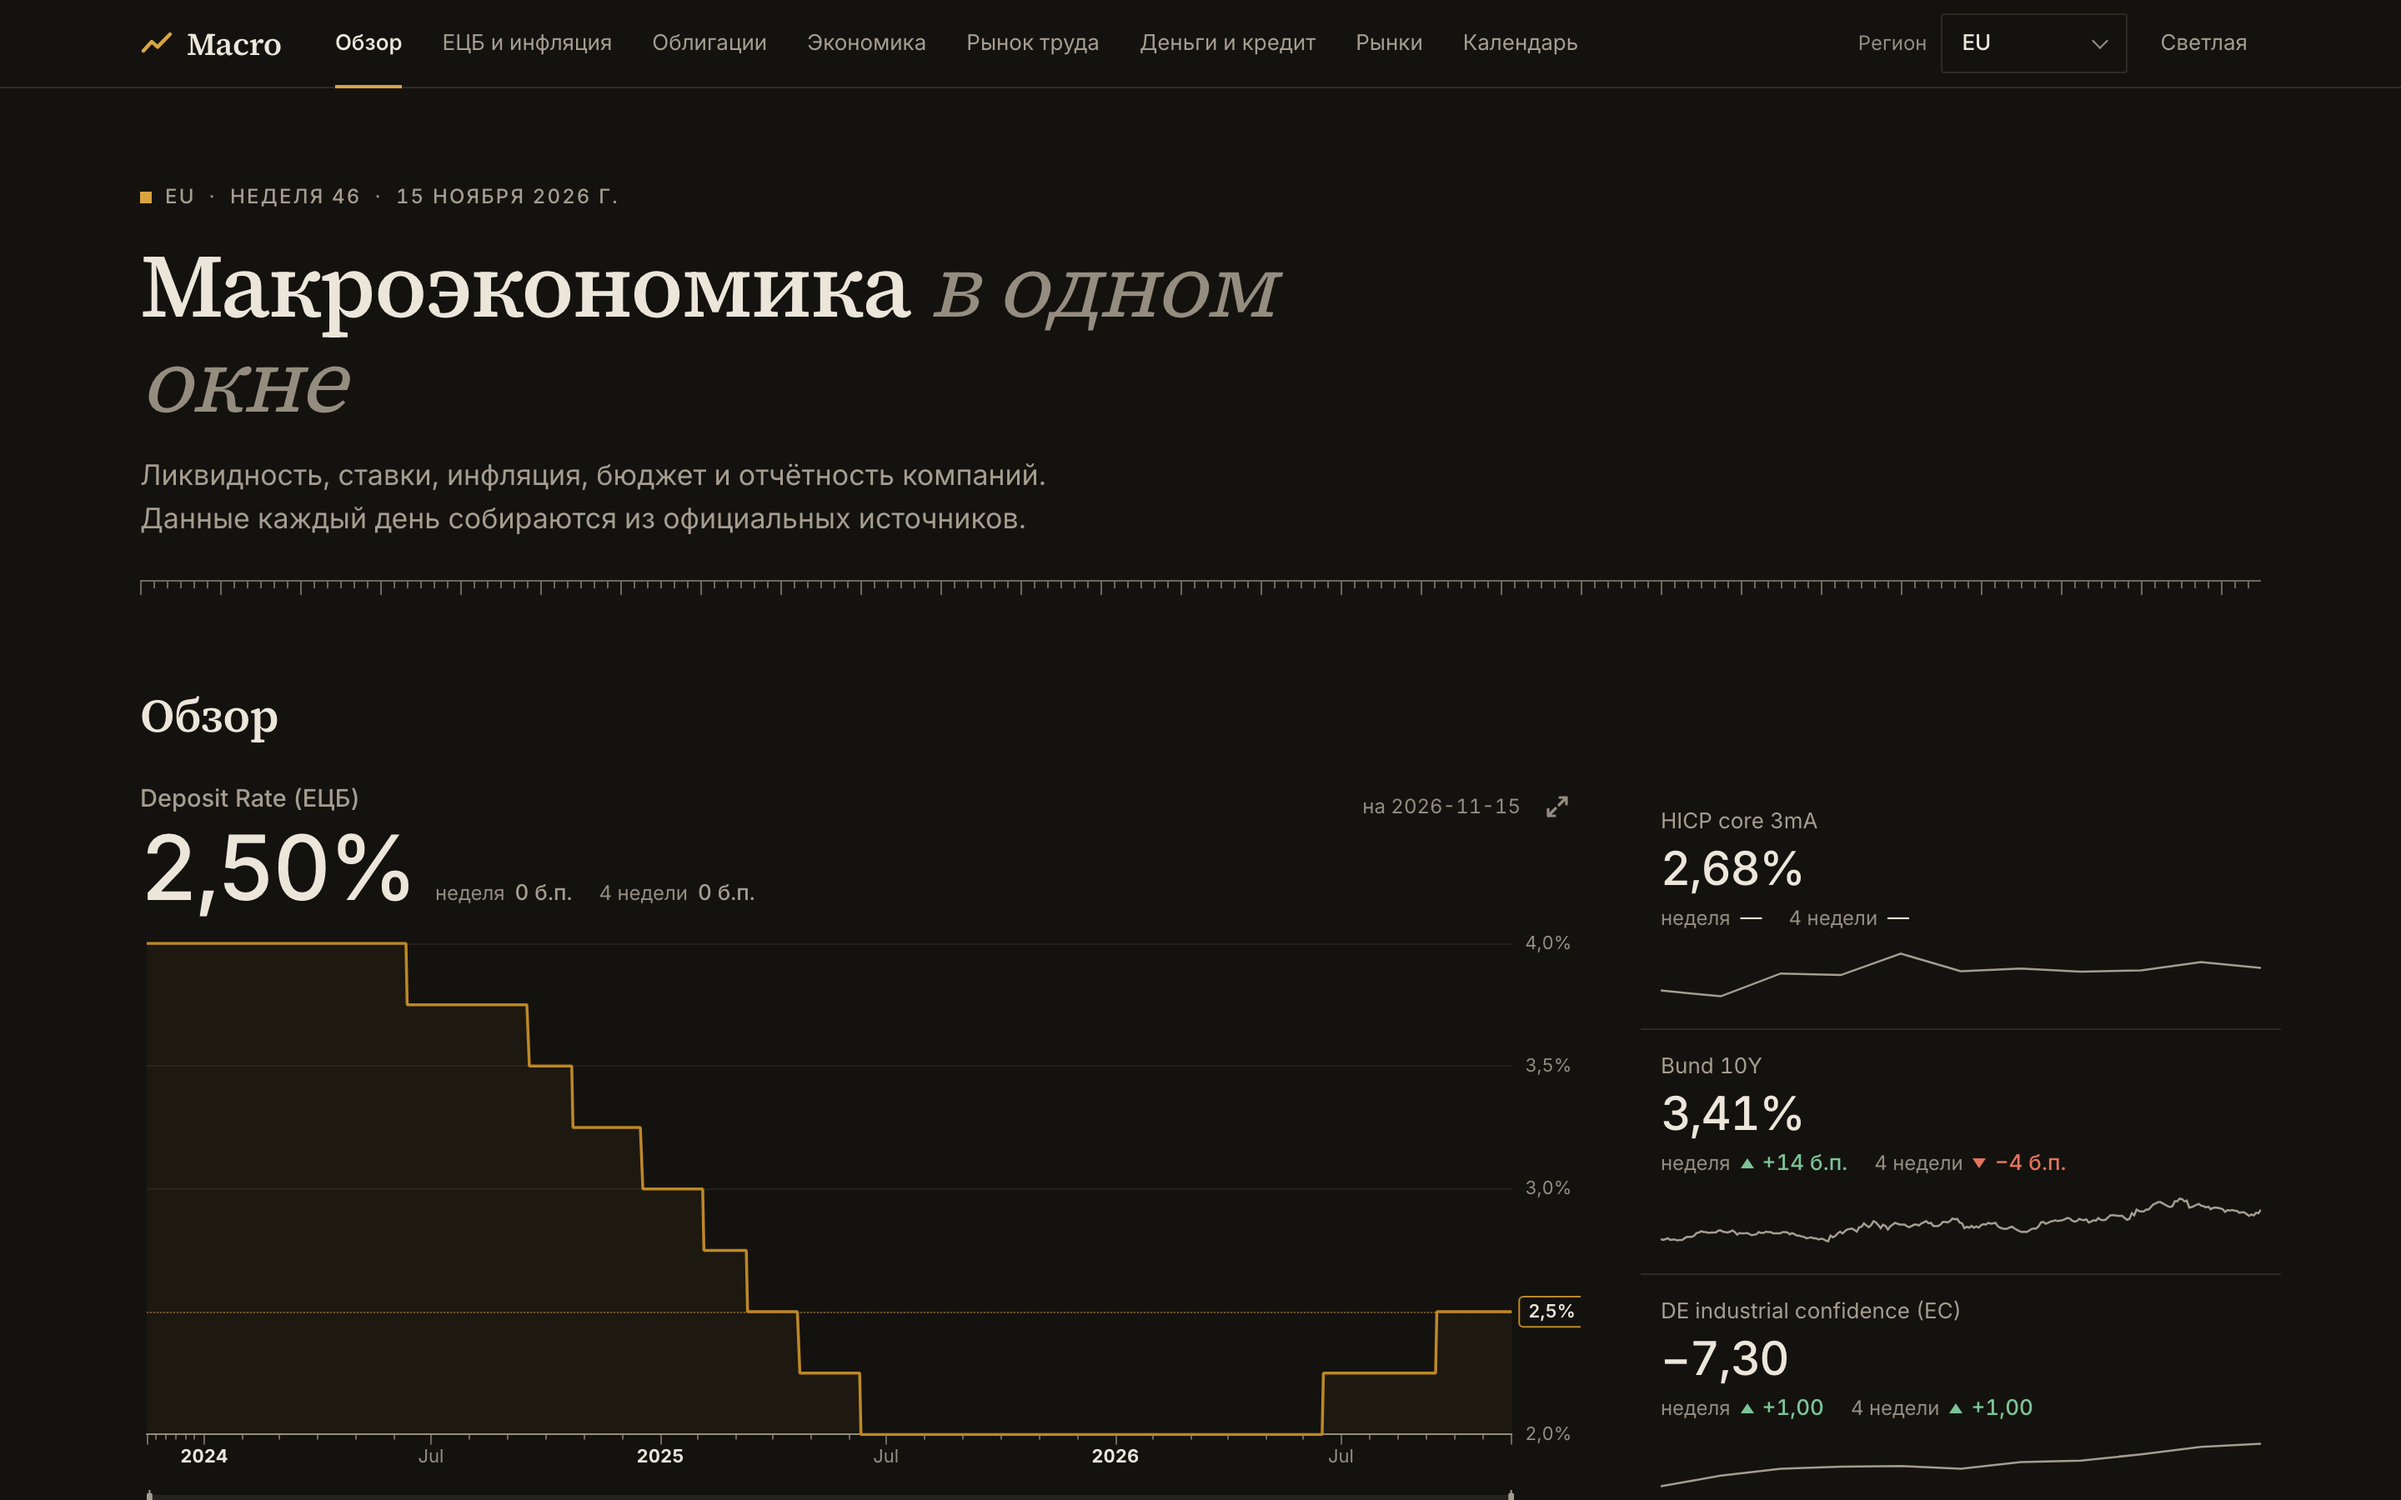
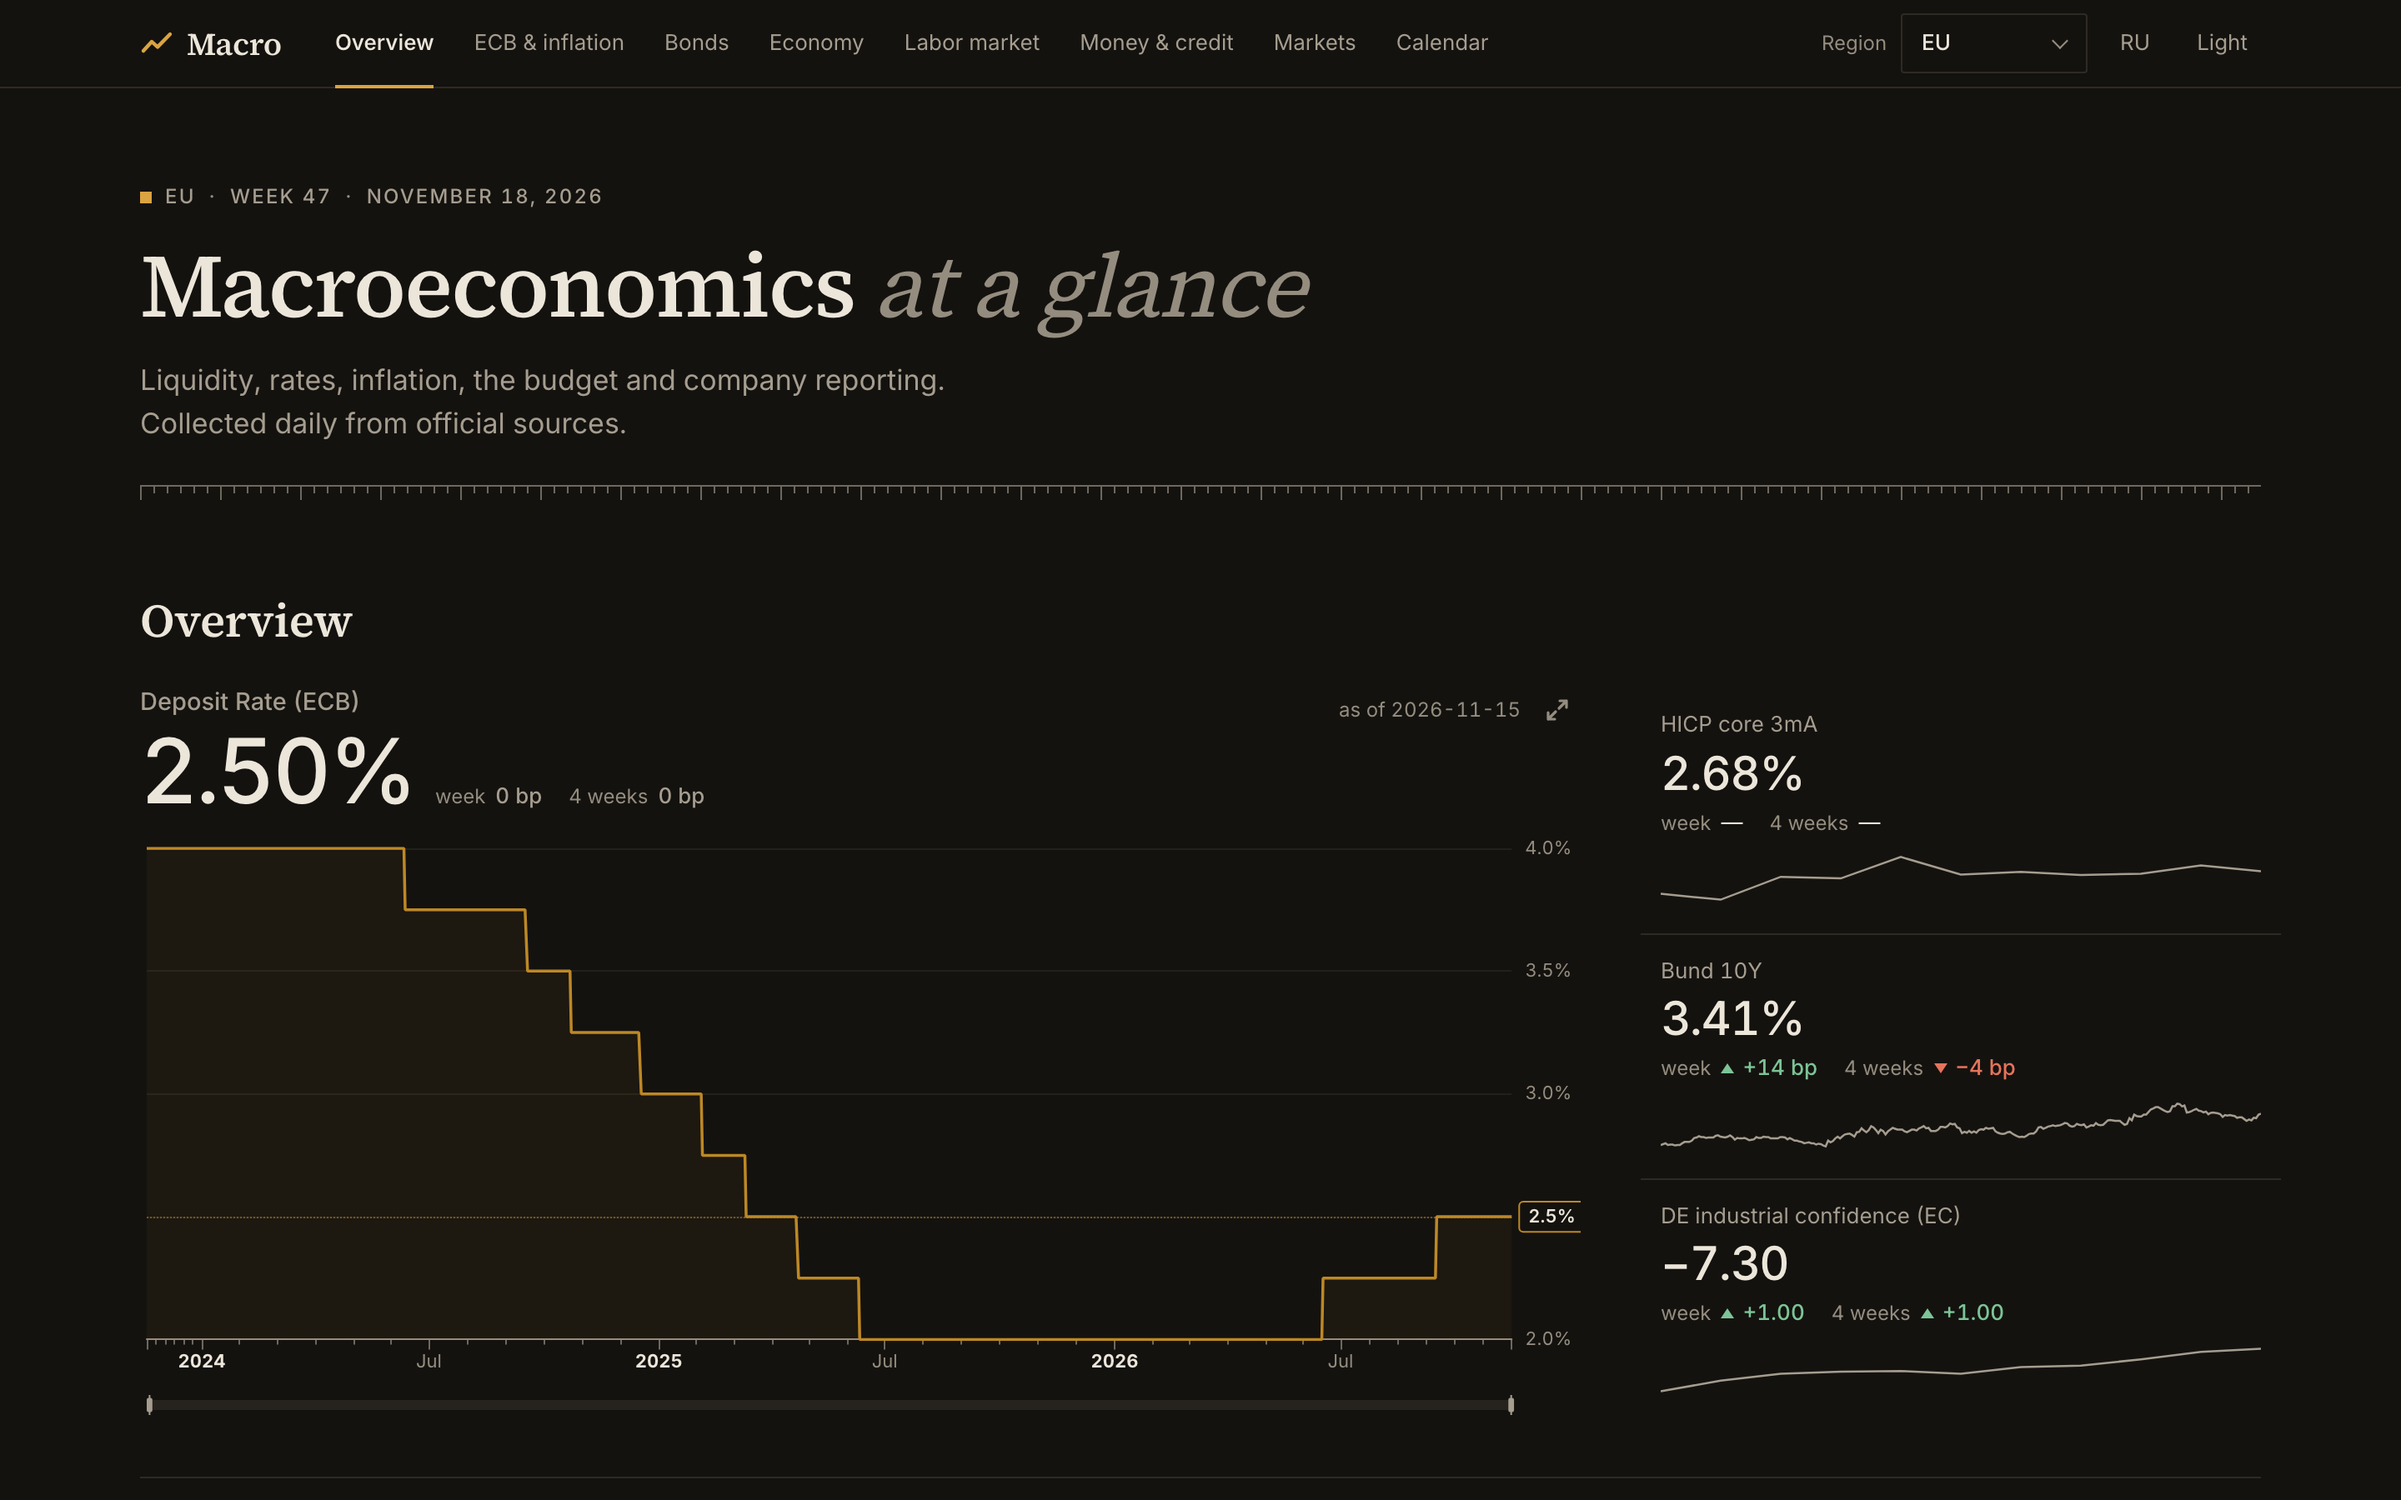
Docs: dashboard screenshots with the English interface

diff --git a/DATA_MAP.md b/DATA_MAP.md
@@ -498,6 +498,25 @@ Deposit Rate · HICP core 3mA · 10Y Bund · BTP-Bund · UST-Bund · DE industri
 
 ---
 
+## Критерии файлов для агентов
+
+Файл в папке агента — всё, что агент знает о неделе: по нему он отвечает на свои ключевые вопросы без внешних поисков и пересчётов. Go считает, агент интерпретирует. Каждый экспорт (США, Европа, новые регионы U2/U3) проверяется по К1–К12; аудит W46 — `docs/DATA_AUDIT_2026-W46.md`.
+
+- **К1. Достаточность** — по каждому ключевому вопросу агента есть данные; если данных нет — это сказано явно (К7).
+- **К2. Готовые преобразования** — то, как показатель принято читать (инфляция MoM/YoY/3mA, GDP QoQa, занятость Δ тыс., ставки уровень + Δ1w/Δ4w, фискал 12m/SAAR); производные (Net Liquidity, спреды, U/V, ZQ) — посчитаны в Go.
+- **К3. Контекст значения** — у ключевого показателя: прошлое значение, изменение и точка отсчёта (z / перцентиль / диапазон года / ожидание); сюрприз = факт − ожидание, где ожидание есть.
+- **К4. Единицы и даты** — однозначные единицы по ТЗ §17; `obs_date` у ряда, дата выхода у релиза; разные даты цен в файле подписаны.
+- **К5. Что изменилось** — отдельный блок нового за неделю, ревизии после округления, флаги; неизменённое не повторяется.
+- **К6. Факт отделён от мнения** — числа источников, расчёты Go, цитаты и мнения — разные блоки, у цитат и мнений автор и дата; интерпретаций Go нет, только флаги по правилам конфига.
+- **К7. Честность о пробелах** — нет в БД / `stale` / `ждём <что> <дата>` / замена источника — явно; нет ложных stale; нет `—` без объяснения.
+- **К8. Без обрезки смысла** — тексты не режутся по символам; экономия — только выкидыванием шума целиком со счётчиком.
+- **К9. Плотность** — нет дублей внутри агента и между агентом и мастером (кроме key metrics); таблицы для чисел; >20% шума или повторов — нарушение; размер в токенах замеряется.
+- **К10. Стабильная структура** — заголовки, порядок разделов и столбцы как в `examples/`; пустой раздел остаётся с пометкой.
+- **К11. Самоописание** — шапка: регион, агент, неделя (§17.1), `generated_at`, тип экспорта, версия формата; неочевидные метрики — сноска один раз.
+- **К12. Проверяемость** — у каждого блока источник (FRED ID, Treasury, EDGAR accession, канал + ссылка).
+
+---
+
 ## Структура экспорта
 
 ```
